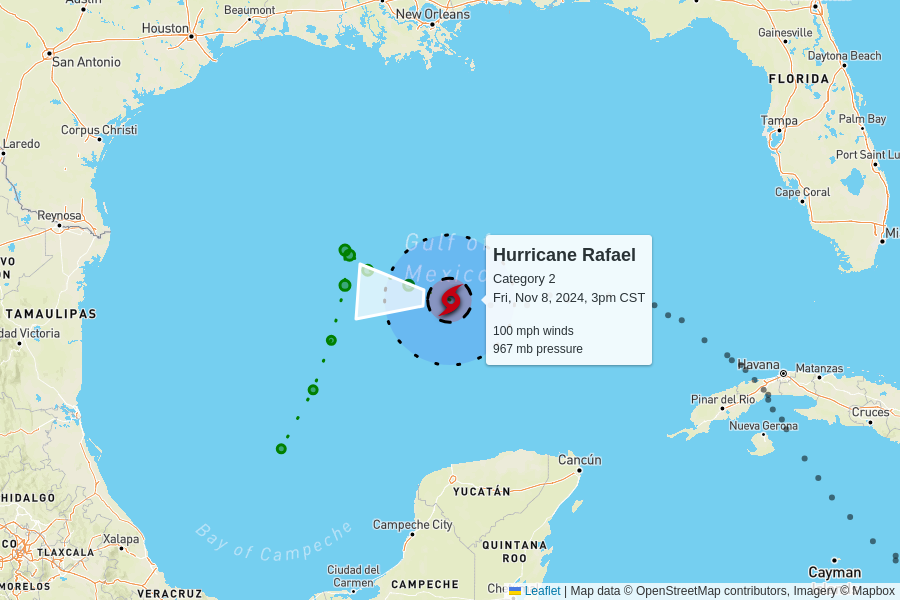
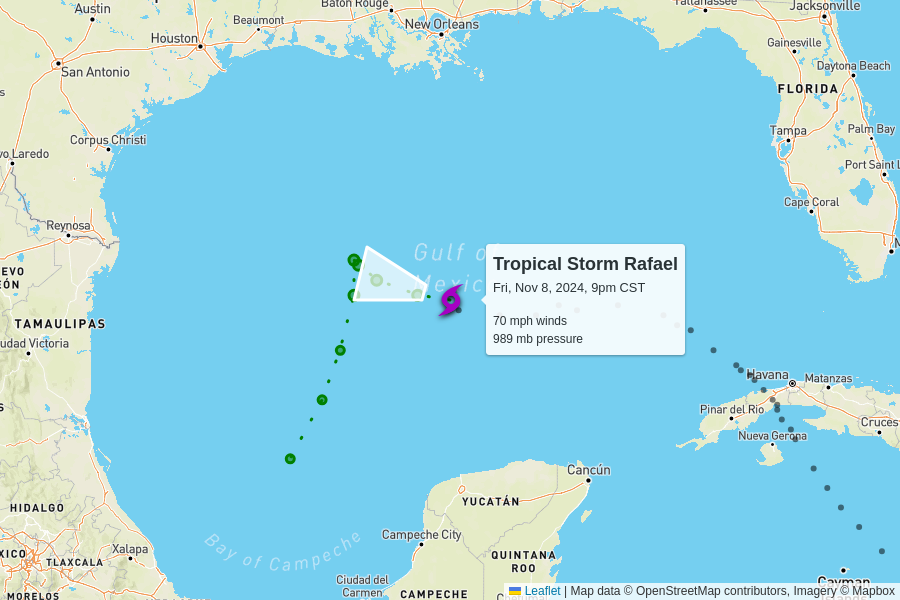
automatic update

diff --git a/docs/index.html b/docs/index.html
@@ -99,10 +99,10 @@
 
     <table>
       <tr>
-        <td colspan="6" class="storm category-2" >
+        <td colspan="6" class="storm category-0" >
           <h2>
-            Hurricane Rafael - Category 2
-            <p class="updated">last updated <span data-time>2024-11-08T21:00:00.000Z</span></p>
+            Tropical Storm Rafael
+            <p class="updated">last updated <span data-time>2024-11-09T03:00:00.000Z</span></p>
           </h2>
         </td>
       </tr>
@@ -117,12 +117,12 @@
       </tr>
       <tr>
         <td class="spacer"></td>
-        <td>100 mph<br>-10 mph since last update</td>
-        <td>967 mb<br>+6 mb since last update</td>
+        <td>70 mph<br>-30 mph since last update</td>
+        <td>989 mb<br>+22 mb since last update</td>
         <td>
-          9 mph to the west
+          5 mph to the west-northwest
           <br/>
-          <span style="display: inline-block; font-size: 1.5em; transform: rotate(275deg);">↑</span>
+          <span style="display: inline-block; font-size: 1.5em; transform: rotate(285deg);">↑</span>
         </td>
         <td><a href="https://raw.githubusercontent.com/mgwalker/atlantic-hurricanes/main/data/csv/AL182024.csv">AL182024.csv</a></td>
         <td><a href="https://www.nhc.noaa.gov/archive/2024/RAFAEL.shtml?">NHC advisories</a></td>
